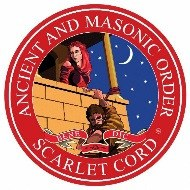
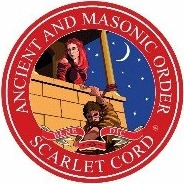
Add files via upload

diff --git a/estilos.css b/estilos.css
@@ -133,10 +133,10 @@ nav.principal {
 .franja .subtitulo { font-size: 1.35rem; font-style: italic; margin: 0; opacity: .95; }
 .franja .sello {
   width: clamp(150px, 22vw, 240px); aspect-ratio: 1;
-  border-radius: 50%; background: #fff; padding: 6px;
-  box-shadow: 0 0 0 4px rgba(255,255,255,.25);
+  border-radius: 50%; overflow: hidden;
+  box-shadow: 0 0 0 3px var(--oro), 0 4px 18px rgba(0,0,0,.35);
 }
-.franja .sello img { width: 100%; height: 100%; object-fit: contain; border-radius: 50%; }
+.franja .sello img { width: 100%; height: 100%; object-fit: cover; }
 .tema-osm .franja { border-bottom: 5px solid var(--morado); }
 .tema-osc .franja { border-bottom: 5px solid var(--naranja); }
 
